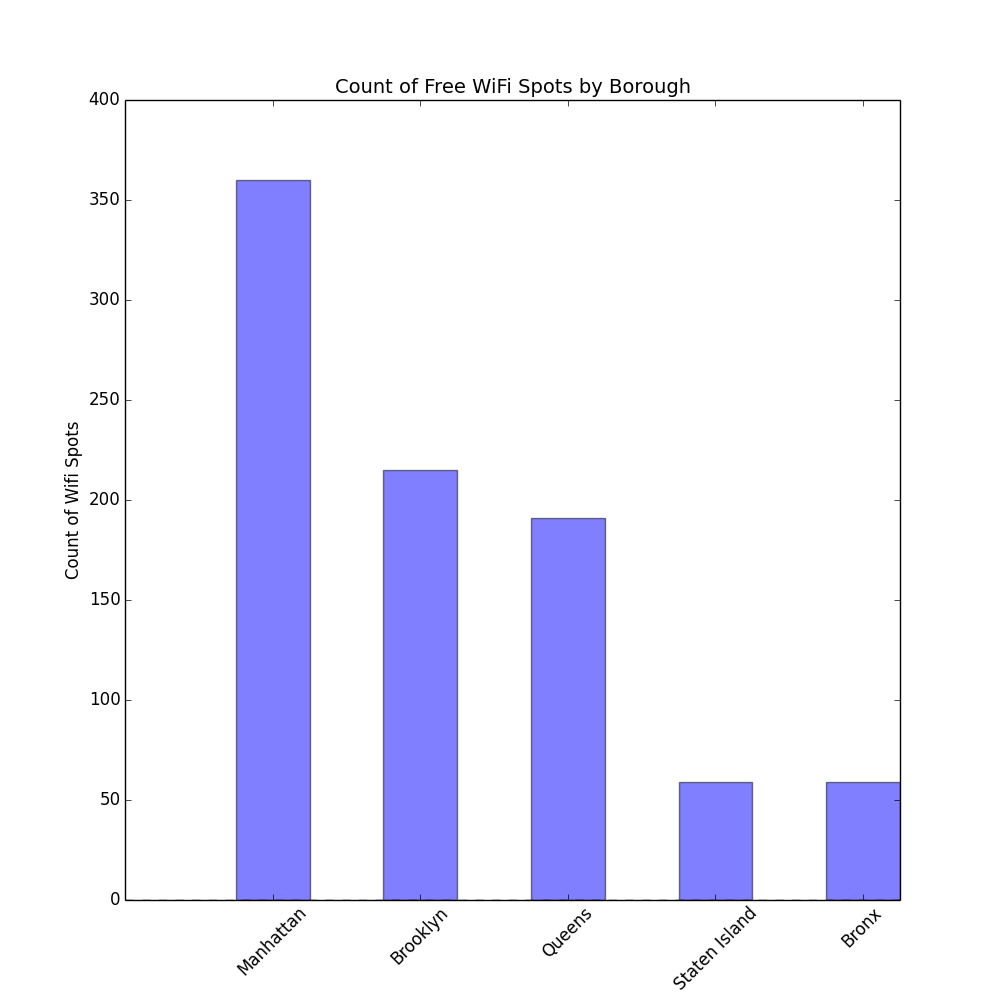
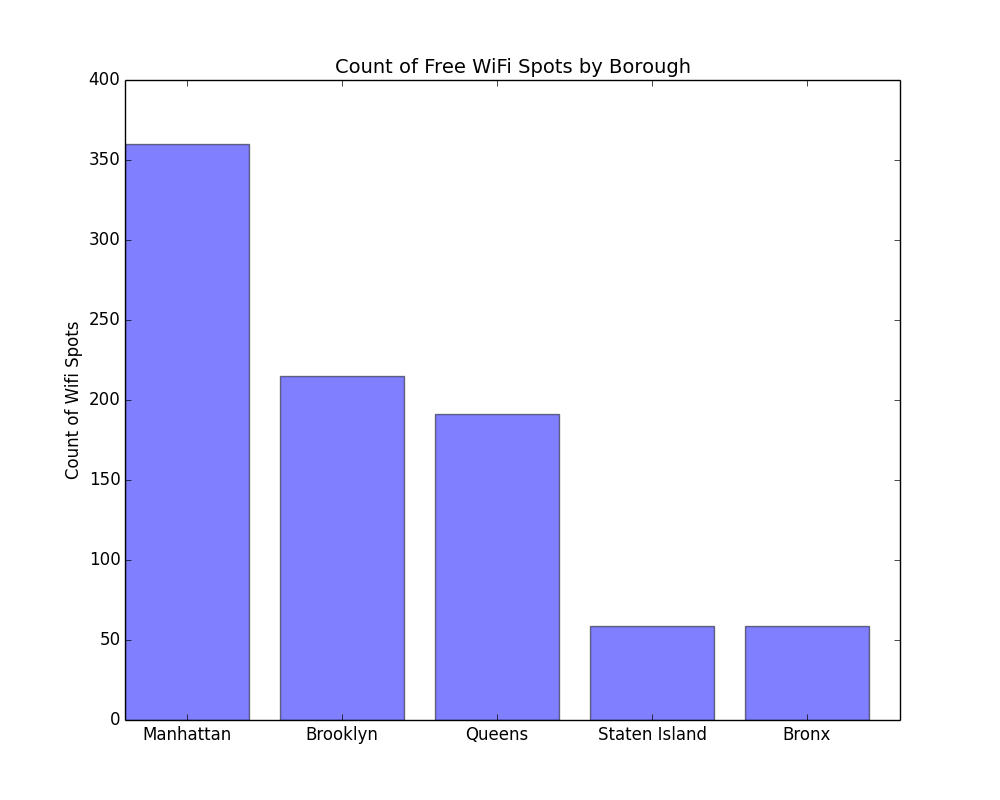
modified barchart.py

diff --git a/lw1582/graphicOutput/barchart.py b/lw1582/graphicOutput/barchart.py
@@ -21,16 +21,20 @@ def plot_barchart(DF):
   '''
 
   fig = plt.figure()
+  fig.set_size_inches(10,8)
   ax = fig.add_subplot(111)
 
   plot_data = DF['Borough'].value_counts() 
   row_labels = list(plot_data.index)
+  row = np.arange(len(row_labels))
 
-  plot_data.plot(plot_data,kind='bar',figsize = (10,10), alpha = 0.5)
+  ax.bar(row,plot_data, width = 0.8,alpha = 0.5)
 
   ax.set_ylabel('Count of Wifi Spots')
-  xtickNames = ax.set_xticklabels(row_labels)
-  plt.setp(xtickNames, rotation=45, fontsize=12)
+  pos = row + 0.4
+  ax.set_xticks(pos)
+  ax.set_xticklabels(row_labels)
+
   ax.grid(False)
   ax.set_title('Count of Free WiFi Spots by Borough', fontsize = 14)
   
